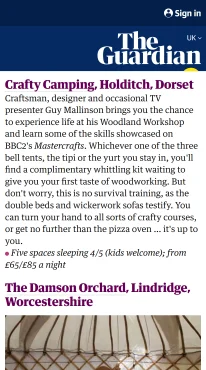
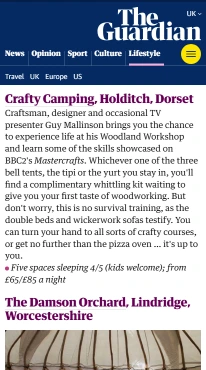
Give the Daily Mail its masthead back, and clear the Guardian's sign-in rail
Retaking the Mail at the width it is shown at cost it its masthead: the paper
draws the blackletter mark large in the desktop template and shrinks it to a
line of small type on a coloured bar in the mobile one, and I took the whole
tile from the mobile page without noticing what that did to the head of it.
The head now comes from the desktop page, where the masthead sits well inside
412 even though the article does not, and the article below it still comes
from the mobile page, which reflows and so keeps its headline whole. The
pictures stay inside the text column.

The Guardian led with a sign-in rail above its masthead. That is the reader's
own account, not the paper's, and says nothing about the piece, so the cutting
is taken again without it -- the band now starts at the masthead.

Conde Nast Traveller's mark is a stacked lockup and still read small beside
its neighbours at the size the Guardian's uses, so it takes a larger one.

diff --git a/public/press.html b/public/press.html
@@ -393,7 +393,7 @@
                     </li>
                     <li id="press-dailymail" data-location="dorset">
                       <article class="ch-press__card">
-                        <a class="ch-press__clip" href="https://www.dailymail.co.uk/travel/travel_news/article-4127672/Britain-s-best-treehouses.html" target="_blank" rel="noopener" aria-label="Read &ldquo;Britain&#x27;s most luxurious treehouse comes with a sauna&rdquo; on Daily Mail"><img src="images/press-shots/dailymail-412.webp?v=20260926" srcset="images/press-shots/dailymail-206.webp?v=20260926 206w, images/press-shots/dailymail-412.webp?v=20260926 412w" sizes="(max-width: 767px) 45vw, 14rem" loading="lazy" decoding="async" alt=""></a>
+                        <a class="ch-press__clip" href="https://www.dailymail.co.uk/travel/travel_news/article-4127672/Britain-s-best-treehouses.html" target="_blank" rel="noopener" aria-label="Read &ldquo;Britain&#x27;s most luxurious treehouse comes with a sauna&rdquo; on Daily Mail"><img src="images/press-shots/dailymail-412.webp?v=20260926a" srcset="images/press-shots/dailymail-206.webp?v=20260926a 206w, images/press-shots/dailymail-412.webp?v=20260926a 412w" sizes="(max-width: 767px) 45vw, 14rem" loading="lazy" decoding="async" alt=""></a>
                         <div class="ch-press__body">
                           <span class="ch-press__logo" role="img" aria-label="Daily Mail" style="-webkit-mask-image:url('images/press/dailymail.png');mask-image:url('images/press/dailymail.png')"></span>
                           <p class="ch-press__year">2017 &middot; Dorset</p>
@@ -435,7 +435,7 @@
                       <article class="ch-press__card ch-press__card--bare">
                         <a class="ch-press__clip" href="https://www.cntraveller.com/gallery/guide-to-dorset-england" target="_blank" rel="noopener" aria-label="Read &ldquo;The Best of West Dorset&rdquo; on Condé Nast Traveller"><img src="images/press-shots/cntraveller-412.webp?v=20260926a" srcset="images/press-shots/cntraveller-206.webp?v=20260926a 206w, images/press-shots/cntraveller-412.webp?v=20260926a 412w" sizes="(max-width: 767px) 45vw, 14rem" loading="lazy" decoding="async" alt=""></a>
                         <div class="ch-press__body">
-                          <span class="ch-press__logo" role="img" aria-label="Condé Nast Traveller" style="--logo-scale:1.5;-webkit-mask-image:url('images/press/cntraveller.svg');mask-image:url('images/press/cntraveller.svg')"></span>
+                          <span class="ch-press__logo" role="img" aria-label="Condé Nast Traveller" style="--logo-scale:1.75;-webkit-mask-image:url('images/press/cntraveller.svg');mask-image:url('images/press/cntraveller.svg')"></span>
                           <p class="ch-press__year">2013 &middot; Dorset</p>
                           <p class="ch-press__note">Pioneering woodland glamping to pioneering woodland treehouses</p>
                         </div>
@@ -443,7 +443,7 @@
                     </li>
                     <li id="press-guardian" data-location="dorset">
                       <article class="ch-press__card ch-press__card--bare">
-                        <a class="ch-press__clip" href="https://www.theguardian.com/travel/2011/jul/29/glamping-britain-campsites-alastair-sawday" target="_blank" rel="noopener" aria-label="Read &ldquo;Happy glampers: 10 comfy alternatives to a tent&rdquo; on The Guardian"><img src="images/press-shots/guardian-412.webp?v=20260925" srcset="images/press-shots/guardian-206.webp?v=20260925 206w, images/press-shots/guardian-412.webp?v=20260925 412w" sizes="(max-width: 767px) 45vw, 14rem" loading="lazy" decoding="async" alt=""></a>
+                        <a class="ch-press__clip" href="https://www.theguardian.com/travel/2011/jul/29/glamping-britain-campsites-alastair-sawday" target="_blank" rel="noopener" aria-label="Read &ldquo;Happy glampers: 10 comfy alternatives to a tent&rdquo; on The Guardian"><img src="images/press-shots/guardian-412.webp?v=20260926a" srcset="images/press-shots/guardian-206.webp?v=20260926a 206w, images/press-shots/guardian-412.webp?v=20260926a 412w" sizes="(max-width: 767px) 45vw, 14rem" loading="lazy" decoding="async" alt=""></a>
                         <div class="ch-press__body">
                           <span class="ch-press__logo" role="img" aria-label="The Guardian" style="--logo-scale:1.5;-webkit-mask-image:url('images/press/guardian.svg');mask-image:url('images/press/guardian.svg')"></span>
                           <p class="ch-press__year">2011 &middot; Dorset</p>

diff --git a/public/dorset-press.html b/public/dorset-press.html
@@ -246,7 +246,7 @@
                     </li>
                     <li id="press-dailymail" data-location="dorset">
                       <article class="ch-press__card">
-                        <a class="ch-press__clip" href="https://www.dailymail.co.uk/travel/travel_news/article-4127672/Britain-s-best-treehouses.html" target="_blank" rel="noopener" aria-label="Read &ldquo;Britain&#x27;s most luxurious treehouse comes with a sauna&rdquo; on Daily Mail"><img src="images/press-shots/dailymail-412.webp?v=20260926" srcset="images/press-shots/dailymail-206.webp?v=20260926 206w, images/press-shots/dailymail-412.webp?v=20260926 412w" sizes="(max-width: 767px) 45vw, 14rem" loading="lazy" decoding="async" alt=""></a>
+                        <a class="ch-press__clip" href="https://www.dailymail.co.uk/travel/travel_news/article-4127672/Britain-s-best-treehouses.html" target="_blank" rel="noopener" aria-label="Read &ldquo;Britain&#x27;s most luxurious treehouse comes with a sauna&rdquo; on Daily Mail"><img src="images/press-shots/dailymail-412.webp?v=20260926a" srcset="images/press-shots/dailymail-206.webp?v=20260926a 206w, images/press-shots/dailymail-412.webp?v=20260926a 412w" sizes="(max-width: 767px) 45vw, 14rem" loading="lazy" decoding="async" alt=""></a>
                         <div class="ch-press__body">
                           <span class="ch-press__logo" role="img" aria-label="Daily Mail" style="-webkit-mask-image:url('images/press/dailymail.png');mask-image:url('images/press/dailymail.png')"></span>
                           <p class="ch-press__year">2017</p>
@@ -288,7 +288,7 @@
                       <article class="ch-press__card ch-press__card--bare">
                         <a class="ch-press__clip" href="https://www.cntraveller.com/gallery/guide-to-dorset-england" target="_blank" rel="noopener" aria-label="Read &ldquo;The Best of West Dorset&rdquo; on Condé Nast Traveller"><img src="images/press-shots/cntraveller-412.webp?v=20260926a" srcset="images/press-shots/cntraveller-206.webp?v=20260926a 206w, images/press-shots/cntraveller-412.webp?v=20260926a 412w" sizes="(max-width: 767px) 45vw, 14rem" loading="lazy" decoding="async" alt=""></a>
                         <div class="ch-press__body">
-                          <span class="ch-press__logo" role="img" aria-label="Condé Nast Traveller" style="--logo-scale:1.5;-webkit-mask-image:url('images/press/cntraveller.svg');mask-image:url('images/press/cntraveller.svg')"></span>
+                          <span class="ch-press__logo" role="img" aria-label="Condé Nast Traveller" style="--logo-scale:1.75;-webkit-mask-image:url('images/press/cntraveller.svg');mask-image:url('images/press/cntraveller.svg')"></span>
                           <p class="ch-press__year">2013</p>
                           <p class="ch-press__note">Pioneering woodland glamping to pioneering woodland treehouses</p>
                         </div>
@@ -296,7 +296,7 @@
                     </li>
                     <li id="press-guardian" data-location="dorset">
                       <article class="ch-press__card ch-press__card--bare">
-                        <a class="ch-press__clip" href="https://www.theguardian.com/travel/2011/jul/29/glamping-britain-campsites-alastair-sawday" target="_blank" rel="noopener" aria-label="Read &ldquo;Happy glampers: 10 comfy alternatives to a tent&rdquo; on The Guardian"><img src="images/press-shots/guardian-412.webp?v=20260925" srcset="images/press-shots/guardian-206.webp?v=20260925 206w, images/press-shots/guardian-412.webp?v=20260925 412w" sizes="(max-width: 767px) 45vw, 14rem" loading="lazy" decoding="async" alt=""></a>
+                        <a class="ch-press__clip" href="https://www.theguardian.com/travel/2011/jul/29/glamping-britain-campsites-alastair-sawday" target="_blank" rel="noopener" aria-label="Read &ldquo;Happy glampers: 10 comfy alternatives to a tent&rdquo; on The Guardian"><img src="images/press-shots/guardian-412.webp?v=20260926a" srcset="images/press-shots/guardian-206.webp?v=20260926a 206w, images/press-shots/guardian-412.webp?v=20260926a 412w" sizes="(max-width: 767px) 45vw, 14rem" loading="lazy" decoding="async" alt=""></a>
                         <div class="ch-press__body">
                           <span class="ch-press__logo" role="img" aria-label="The Guardian" style="--logo-scale:1.5;-webkit-mask-image:url('images/press/guardian.svg');mask-image:url('images/press/guardian.svg')"></span>
                           <p class="ch-press__year">2011</p>
